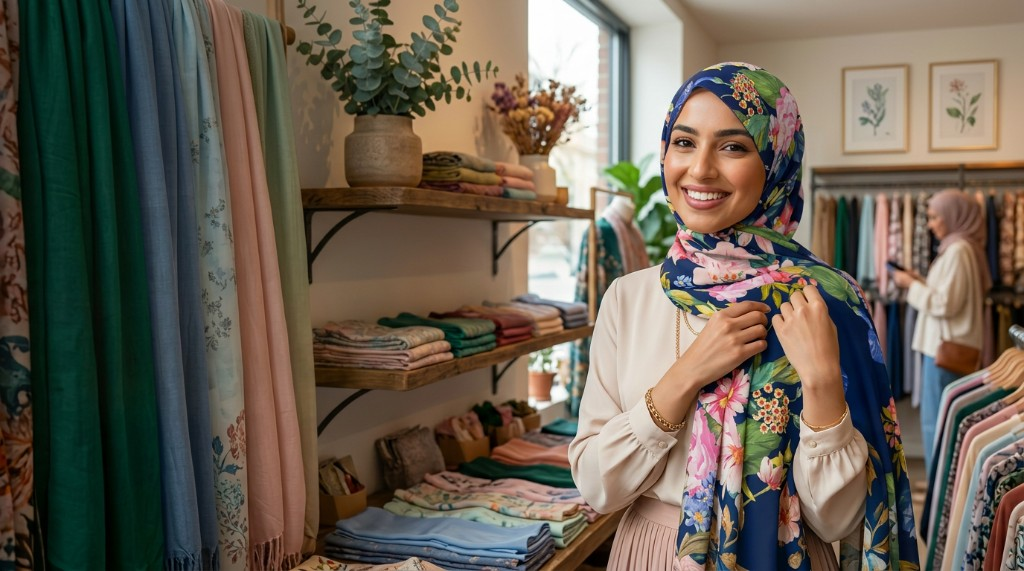
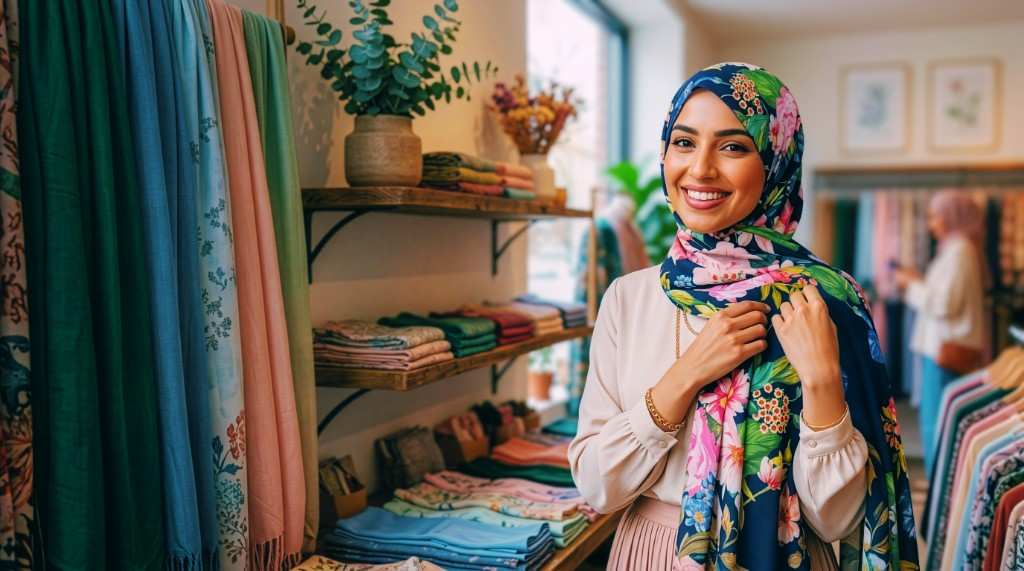
Hero Edits

diff --git a/src/components/storefront/hero-banner.tsx b/src/components/storefront/hero-banner.tsx
@@ -19,17 +19,20 @@ const ROTATE_MS = 5000
 const slides = [
   {
     src: "/hero/boutique.png",
-    alt: "Boutique AllurinaScarf — châles et modest fashion",
+    alt: "Modèle en boutique AllurinaScarf, foulard fleuri et présentoirs de châles",
     kicker: "Nouveautés",
     title: "Matières & couleurs",
   },
   {
     src: "/hero/courtyard.png",
-    alt: "Inspiration riad — foulards et hijabs",
+    alt: "Modèle dans un riad marocain, hijab à motifs et architecture zellige",
     kicker: "Inspirations",
     title: "L’élégance modeste",
   },
 ] as const
+
+/** Near-lossless for full-bleed hero photography (allowlisted in `next.config` `images.qualities`). */
+const HERO_IMAGE_QUALITY = 95
 
 /** Promo strip (~40px) + compact header row — keeps hero from underlapping chrome on small phones */
 const heroMinHeight =
@@ -70,7 +73,8 @@ export function HeroBanner() {
                 alt={slide.alt}
                 fill
                 priority={index === 0}
-                quality={92}
+                fetchPriority={index === 0 ? "high" : "low"}
+                quality={HERO_IMAGE_QUALITY}
                 sizes="100vw"
                 className="object-cover object-[62%_22%] sm:object-center"
               />

diff --git a/next.config.ts b/next.config.ts
@@ -3,7 +3,7 @@ import type { NextConfig } from "next";
 
 const nextConfig: NextConfig = {
   images: {
-    qualities: [70, 75, 92],
+    qualities: [70, 75, 92, 95, 100],
     remotePatterns: [
       {
         protocol: "https",